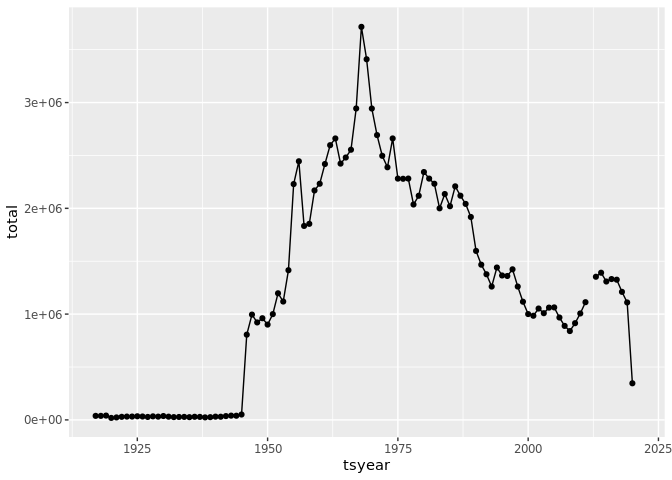
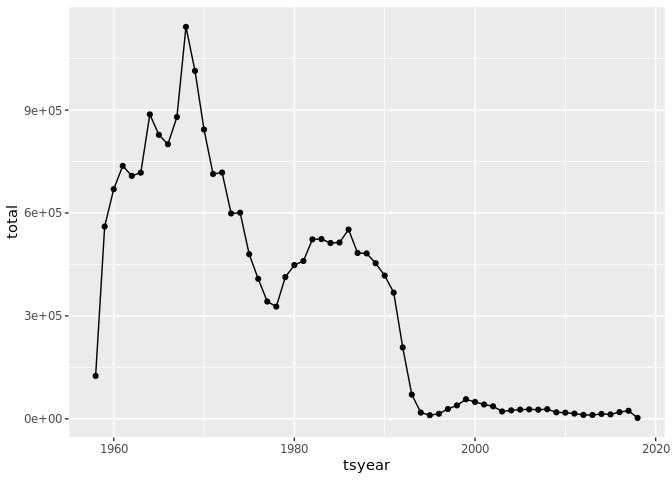
E1 final

diff --git a/assignment/fish-assignment.md b/assignment/fish-assignment.md
@@ -186,6 +186,55 @@ most_recent <-
     ## Joining with `by = join_by(stockid, stocklong)`
 
 ``` r
+most_recent
+```
+
+    ## # A tibble: 27 × 1
+    ##    assessid                               
+    ##    <chr>                                  
+    ##  1 AFWG-CODNEAR-1946-2020-ICESIMP2021-2   
+    ##  2 AFWG-CODNEARNCW-1984-2019-ICESIMP2021-2
+    ##  3 DFO-MAR-COD4VsW-1958-2002-PREFONTAINE  
+    ##  4 DFO-MAR-COD4X5Yb-1960-2018-ASHBROOK    
+    ##  5 DFO-NFLD-COD2J3KL-1959-2018-ASHBROOK   
+    ##  6 DFO-NFLD-COD3Ps-1959-2018-ASHBROOK     
+    ##  7 DFO-QUE-COD3Pn4RS-1964-2019-ASHBROOK   
+    ##  8 DFO-SG-COD4TVn-1917-2018-ASHBROOK      
+    ##  9 NAFO-SC-COD3M-1960-2012-CHING          
+    ## 10 NAFO-SC-COD3NO-1953-2011-CHING         
+    ## # ℹ 17 more rows
+
+``` r
+least_recent <-
+  assess |> 
+  left_join(stock) |>
+  filter(commonname == "Atlantic cod") |>
+  filter(mostrecent == 0) |>
+  select(assessid)
+```
+
+    ## Joining with `by = join_by(stockid, stocklong)`
+
+``` r
+least_recent
+```
+
+    ## # A tibble: 120 × 1
+    ##    assessid                             
+    ##    <chr>                                
+    ##  1 AFWG-CODNEAR-1943-2013-ICESIMP2016   
+    ##  2 AFWG-CODNEAR-1943-2014-ICESIMP2016   
+    ##  3 AFWG-CODNEAR-1943-2015-ICESIMP2016   
+    ##  4 AFWG-CODNEAR-1943-2016-ICESIMP2016   
+    ##  5 AFWG-CODNEAR-1943-2017-ICESIMP2018   
+    ##  6 AFWG-CODNEAR-1943-2018-ICESIMP2018   
+    ##  7 AFWG-CODNEAR-1943-2019-ICESIMP2021   
+    ##  8 AFWG-CODNEAR-1946-2011-CHING         
+    ##  9 AFWG-CODNEARNCW-1982-2016-ICESIMP2016
+    ## 10 AFWG-CODNEARNCW-1982-2018-ICESIMP2021
+    ## # ℹ 110 more rows
+
+``` r
 area <- read_xlsx(xlsx, sheet = "area")
 area
 ```
@@ -237,53 +286,157 @@ ts
     ## #   alternateareaname <chr>
 
 ``` r
-ts |>
-  filter(scientificname=="Gadus morhua") |>
-  inner_join(most_recent) |>
+cod <- ts |>
+  filter(scientificname == "Gadus morhua") |>
+  filter(country=="Canada") |>
+  filter(tsyear > 1957) |>
+  inner_join(most_recent, by = "assessid") 
+cod
+```
+
+    ## # A tibble: 337 × 29
+    ##    assessid     stockid stocklong tsid  tsyear tsvalue tscategory tsshort tslong
+    ##    <chr>        <chr>   <chr>     <chr>  <dbl>   <dbl> <chr>      <chr>   <chr> 
+    ##  1 DFO-MAR-COD… COD4VsW Atlantic… TCbe…   1958   38600 CATCH or … TCbest  Gener…
+    ##  2 DFO-MAR-COD… COD4VsW Atlantic… TCbe…   1959   66000 CATCH or … TCbest  Gener…
+    ##  3 DFO-MAR-COD… COD4VsW Atlantic… TCbe…   1960   50600 CATCH or … TCbest  Gener…
+    ##  4 DFO-MAR-COD… COD4VsW Atlantic… TCbe…   1961   66300 CATCH or … TCbest  Gener…
+    ##  5 DFO-MAR-COD… COD4VsW Atlantic… TCbe…   1962   65200 CATCH or … TCbest  Gener…
+    ##  6 DFO-MAR-COD… COD4VsW Atlantic… TCbe…   1963   68200 CATCH or … TCbest  Gener…
+    ##  7 DFO-MAR-COD… COD4VsW Atlantic… TCbe…   1964   63300 CATCH or … TCbest  Gener…
+    ##  8 DFO-MAR-COD… COD4VsW Atlantic… TCbe…   1965   71000 CATCH or … TCbest  Gener…
+    ##  9 DFO-MAR-COD… COD4VsW Atlantic… TCbe…   1966   68500 CATCH or … TCbest  Gener…
+    ## 10 DFO-MAR-COD… COD4VsW Atlantic… TCbe…   1967   54200 CATCH or … TCbest  Gener…
+    ## # ℹ 327 more rows
+    ## # ℹ 20 more variables: tsunitsshort <chr>, tsunitslong <chr>, tsn <dbl>,
+    ## #   scientificname <chr>, commonname <chr>, areaid <chr>, region <chr>,
+    ## #   primary_country <chr>, primary_FAOarea <dbl>, ISO3_code <chr>,
+    ## #   GRSF_uuid <chr>, GRSF_areaid <chr>, inmyersdb <dbl>, myersstockid <chr>,
+    ## #   state <chr>, country <chr>, areatype <chr>, areacode <chr>, areaname <chr>,
+    ## #   alternateareaname <chr>
+
+``` r
+#cod2 1850-1945 correct
+cod2 <- ts |>
+  filter(scientificname == "Gadus morhua") |>
+  filter(country=="Canada") |>
+  filter(tsyear < 1957) |>
+  inner_join(least_recent, by = "assessid") 
+cod2
+```
+
+    ## # A tibble: 147 × 29
+    ##    assessid     stockid stocklong tsid  tsyear tsvalue tscategory tsshort tslong
+    ##    <chr>        <chr>   <chr>     <chr>  <dbl>   <dbl> <chr>      <chr>   <chr> 
+    ##  1 DFO-COD4X5Y… COD4X5… Atlantic… TCbe…   1948   19800 CATCH or … TCbest  Gener…
+    ##  2 DFO-COD4X5Y… COD4X5… Atlantic… TCbe…   1949   16100 CATCH or … TCbest  Gener…
+    ##  3 DFO-COD4X5Y… COD4X5… Atlantic… TCbe…   1950   20700 CATCH or … TCbest  Gener…
+    ##  4 DFO-COD4X5Y… COD4X5… Atlantic… TCbe…   1951   18200 CATCH or … TCbest  Gener…
+    ##  5 DFO-COD4X5Y… COD4X5… Atlantic… TCbe…   1952   18200 CATCH or … TCbest  Gener…
+    ##  6 DFO-COD4X5Y… COD4X5… Atlantic… TCbe…   1953   14400 CATCH or … TCbest  Gener…
+    ##  7 DFO-COD4X5Y… COD4X5… Atlantic… TCbe…   1954   16900 CATCH or … TCbest  Gener…
+    ##  8 DFO-COD4X5Y… COD4X5… Atlantic… TCbe…   1955   14800 CATCH or … TCbest  Gener…
+    ##  9 DFO-COD4X5Y… COD4X5… Atlantic… TCbe…   1956   16500 CATCH or … TCbest  Gener…
+    ## 10 DFO-MAR-COD… COD4X   Atlantic… TCbe…   1953   13100 CATCH or … TCbest  Gener…
+    ## # ℹ 137 more rows
+    ## # ℹ 20 more variables: tsunitsshort <chr>, tsunitslong <chr>, tsn <dbl>,
+    ## #   scientificname <chr>, commonname <chr>, areaid <chr>, region <chr>,
+    ## #   primary_country <chr>, primary_FAOarea <dbl>, ISO3_code <chr>,
+    ## #   GRSF_uuid <chr>, GRSF_areaid <chr>, inmyersdb <dbl>, myersstockid <chr>,
+    ## #   state <chr>, country <chr>, areatype <chr>, areacode <chr>, areaname <chr>,
+    ## #   alternateareaname <chr>
+
+``` r
+cod |>
   group_by(tsyear) |>
-  summarize(total=sum(tsvalue)) |>
+  summarize(total = sum(tsvalue, na.rm = TRUE)) |>
   ggplot(aes(tsyear,total)) + geom_point() +geom_line()
 ```
 
-    ## Joining with `by = join_by(assessid)`
-
-    ## Warning: Removed 2 rows containing missing values (`geom_point()`).
-
-    ## Warning: Removed 1 row containing missing values (`geom_line()`).
-
 ![](fish-assignment_files/figure-gfm/unnamed-chunk-12-1.png)<!-- -->
 
+``` r
+cod2 |>
+  group_by(tsyear) |>
+  summarize(total = sum(tsvalue, na.rm = TRUE)) |>
+  ggplot(aes(tsyear,total)) + geom_point() +geom_line()
+```
 
+![](fish-assignment_files/figure-gfm/unnamed-chunk-12-2.png)<!-- -->
 
-
-
-
-
-
-    # Unit 2: Fisheries Collapse Module
-
-    This module will focus on understanding and replicating fisheries stock assessment data and fisheries collapse.
-
-    Instead of working with independent data.frames, we will be working with a large relational database which contains many different tables of different sizes and shapes, but that all all related to each other through a series of different ids.
-
-    ## The Database
-
-    We will use data from the [RAM Legacy Stock Assessment Database](https://www.ramlegacy.org/database/)
-
-    # Exercise 1: Investigating the North-Atlantic Cod
-
-    Now we are ready to dive into our data. First, We seek to replicate the following figure from the Millennium Ecosystem Assessment Project using the RAM data.
-
-    ![](http://espm-157.carlboettiger.info/img/cod.jpg)
-
-    ## placeholder
-
-
-    ```r
-    mtcars %>% 
-     ggplot(aes(disp, mpg)) + geom_point()
+``` r
+cod_2J3KL <- cod |>
+  filter(stockid=="COD2J3KL") |>
+  filter(areaid== "Canada-DFO-2J3KL") |>
+  inner_join(most_recent, by = "assessid") 
+cod2J3KL_post1957 <- cod_2J3KL |>
+  group_by(tsyear) |>
+  summarise(total = sum(tsvalue, na.rm = TRUE))
+cod2J3KL_post1957 |> ggplot(aes(tsyear,total)) + geom_line() + geom_point()
+```
 
 ![](fish-assignment_files/figure-gfm/unnamed-chunk-13-1.png)<!-- -->
+
+``` r
+cod2J3KL_pre1957 <- cod2 |>
+  filter(stockid=="COD2J3KL") |>
+  filter(areaid== "Canada-DFO-2J3KL") |>
+  inner_join(least_recent, by = "assessid") |> 
+  group_by(tsyear) |>
+  summarise(total = sum(tsvalue, na.rm = TRUE)) |>
+  filter(tsyear < 1957)
+cod2J3KL_pre1957 |> ggplot(aes(tsyear,total)) + geom_line() + geom_point()
+```
+
+![](fish-assignment_files/figure-gfm/unnamed-chunk-13-2.png)<!-- -->
+
+``` r
+cod2J3KL_ALL <- rbind(cod2J3KL_post1957, cod2J3KL_pre1957)
+ggplot(cod2J3KL_ALL, aes(tsyear, total, group = 1)) +
+  geom_line() + geom_point()
+```
+
+![](fish-assignment_files/figure-gfm/unnamed-chunk-13-3.png)<!-- -->
+
+``` r
+cod_2J3KL_new <- cod_2J3KL |>
+  select(tsyear, tsvalue,stockid, areaid) |>
+  mutate(max_harvest = max(tsvalue),
+         collapsed= tsvalue/max_harvest*100) |>
+  filter(tsyear > 1968)
+
+cod_2J3KL_new |>
+  ggplot(aes(tsyear,collapsed)) + geom_point() +geom_line()
+```
+
+![](fish-assignment_files/figure-gfm/unnamed-chunk-14-1.png)<!-- -->
+
+\`\`\`
+
+# Unit 2: Fisheries Collapse Module
+
+This module will focus on understanding and replicating fisheries stock
+assessment data and fisheries collapse.
+
+Instead of working with independent data.frames, we will be working with
+a large relational database which contains many different tables of
+different sizes and shapes, but that all all related to each other
+through a series of different ids.
+
+## The Database
+
+We will use data from the [RAM Legacy Stock Assessment
+Database](https://www.ramlegacy.org/database/)
+
+# Exercise 1: Investigating the North-Atlantic Cod
+
+Now we are ready to dive into our data. First, We seek to replicate the
+following figure from the Millennium Ecosystem Assessment Project using
+the RAM data.
+
+![](http://espm-157.carlboettiger.info/img/cod.jpg)
+
+## placeholder
 
 ------------------------------------------------------------------------
 
